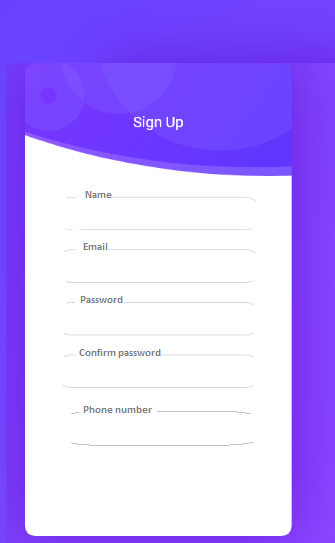
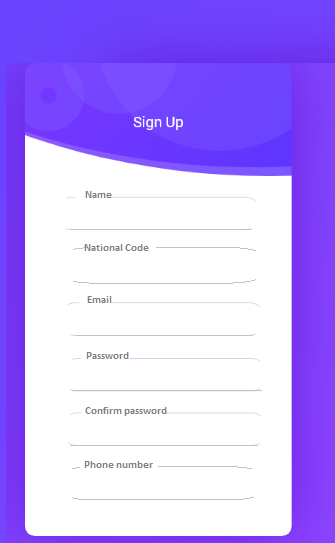
Make changes in the membership section

diff --git a/src/client/SignUp.java b/src/client/SignUp.java
@@ -47,6 +47,12 @@ public class SignUp
         usernameBx.setPadding(new Insets(20,20,20,20));
         usernameBx.setAlignment(Pos.BOTTOM_RIGHT);
 
+        TextField nlCode = new TextField();
+        nlCode.setPromptText("national code");
+        HBox nlBx = new HBox( nlCode);
+        nlBx.setPadding(new Insets(20,20,20,20));
+        nlBx.setAlignment(Pos.BOTTOM_RIGHT);
+
         PasswordField passFl = new PasswordField();
         passFl.setPromptText("password");
         HBox passBx = new HBox( passFl);
@@ -73,30 +79,10 @@ public class SignUp
         mailBx.setAlignment(Pos.BOTTOM_RIGHT);
 
 
-        Button bt = new Button();
-        InputStream input = new FileInputStream("./icons/button3.png");
-        Image background = new Image(input);
-        bt.setBackground(new Background(new BackgroundImage(background , BackgroundRepeat.REPEAT,BackgroundRepeat.NO_REPEAT, BackgroundPosition.CENTER,BackgroundSize.DEFAULT)));
-        bt.setPadding(new Insets(10,50,10,50));
-        bt.setFont(Font.font("T", FontWeight.LIGHT, FontPosture.ITALIC, 15));
-        bt.setTranslateX(45);
-        bt.setTranslateY(25);
-        bt.setTextFill(Color.MIDNIGHTBLUE);
-
-        bt.setOnAction(new EventHandler<ActionEvent>() {
-            @Override
-            public void handle(ActionEvent event) {
-                try {
-                    primaryStage.close();
-                    LogIn Lg = new LogIn(primaryStage);
-                } catch (FileNotFoundException e) {
-                    e.printStackTrace();
-                }
-            }
-        });
 
 
-        VBox vb = new VBox(usernameBx , mailBx , passBx , checkPassBx , phoneBx  , bt);
+
+        VBox vb = new VBox(usernameBx ,nlBx, mailBx , passBx , checkPassBx , phoneBx );
         vb.setLayoutX(60);
         vb.setLayoutY(90);
         vb.setSpacing(-11);
@@ -112,13 +98,13 @@ public class SignUp
 
 
         Button exit = new Button();
-        exit.setLayoutX(25);
-        exit.setLayoutY(210);
+        exit.setLayoutX(20);
+        exit.setLayoutY(235);
 
         InputStream ex = new FileInputStream("./icons/back.png");
         Image backEx = new Image(ex);
         exit.setBackground(new Background(new BackgroundImage(backEx , BackgroundRepeat.REPEAT,BackgroundRepeat.NO_REPEAT, BackgroundPosition.CENTER,BackgroundSize.DEFAULT)));
-        exit.setPadding(new Insets(5,0,0,25));
+        exit.setPadding(new Insets(15,0,0,30));
         exit.setFont(Font.font("T", FontWeight.LIGHT, FontPosture.ITALIC, 15));
 
 
@@ -135,15 +121,32 @@ public class SignUp
                 }
             }
         });
+
+        Button bt = new Button();
+        InputStream input = new FileInputStream("./icons/next.png");
+        Image background = new Image(input);
+        bt.setBackground(new Background(new BackgroundImage(background , BackgroundRepeat.REPEAT,BackgroundRepeat.NO_REPEAT, BackgroundPosition.CENTER,BackgroundSize.DEFAULT)));
+        bt.setPadding(new Insets(15,0,0,30));
+        bt.setTranslateX(257);
+        bt.setTranslateY(240);
+        root.getChildren().add(bt);
+
         bt.setOnAction((ActionEvent e )-> {
 
 
-            if  (usernamFl.getText().isEmpty() || passFl.getText().isEmpty() || mailFl.getText().isEmpty() || phoneFl.getText().isEmpty() || checkPassFl.getText().isEmpty())
+            if  (usernamFl.getText().isEmpty() || passFl.getText().isEmpty() || mailFl.getText().isEmpty() || phoneFl.getText().isEmpty() || checkPassFl.getText().isEmpty() || nlCode.getText().isEmpty())
             {
 
                 if (usernamFl.getText().isEmpty())
                 {
                     usernamFl.setStyle("-fx-border-color: #800000;" +
+                            "    -fx-border-width: 1px;" +
+                            "    -fx-border-style: solid;");
+                }
+
+                if (nlCode.getText().isEmpty())
+                {
+                    nlCode.setStyle("-fx-border-color: #800000;" +
                             "    -fx-border-width: 1px;" +
                             "    -fx-border-style: solid;");
                 }
@@ -183,6 +186,11 @@ public class SignUp
                 usernamFl.setStyle("-fx-border-color: #FFFAFA;" +
                         "    -fx-border-width: 0px;" +
                         "    -fx-border-style: solid;");
+
+                nlCode.setStyle("-fx-border-color: #FFFAFA;" +
+                        "    -fx-border-width: 0px;" +
+                        "    -fx-border-style: solid;");
+
                 passFl.setStyle("-fx-border-color: #FFFAFA;" +
                         "    -fx-border-width: 0px;" +
                         "    -fx-border-style: solid;");
@@ -219,6 +227,9 @@ public class SignUp
             }
 
         });
+
+
+
 
         root.getChildren().add(vb);
         Scene scene = new Scene(root);
